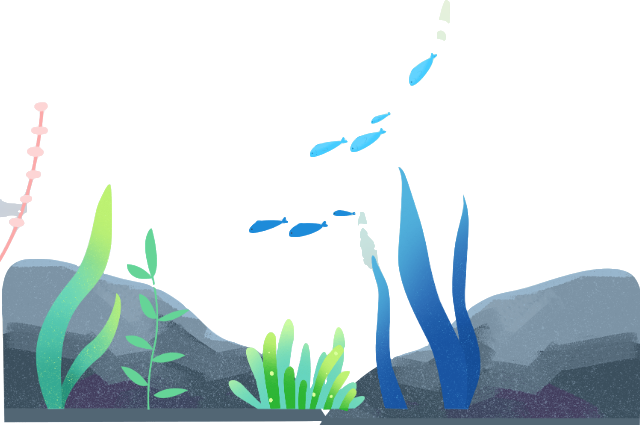
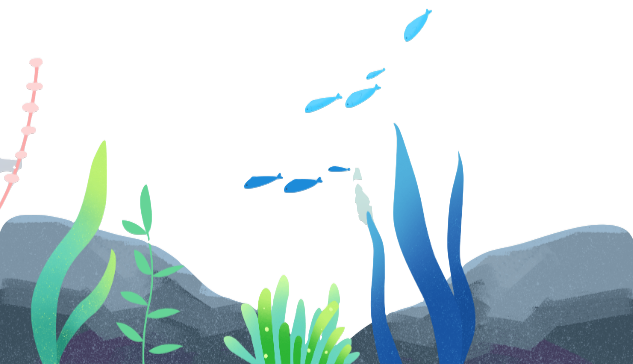
成功在底部显示海底背景图

diff --git a/src/components/GameCanvas.vue b/src/components/GameCanvas.vue
@@ -12,10 +12,10 @@
 <style scoped>
 .top {
     position: absolute;
-    top: 25%;
+    top: 20%;
     left: 25%;
     width: 45%;
-    height: 68%;
+    height: 75%;
     background-color: #c0e3ff;
     border-radius: 5%;
     overflow: hidden;
@@ -71,12 +71,14 @@ export default {
             results: undefined, // 识别结果
             faceDetector: undefined, // 人脸识别器
             faceResults: undefined, // 人脸识别结果
+            backgroundImage: null, // 背景图片
         }
     },
     mounted() {
         this.loadDrawingUtils();
         this.createFaceDetector();
         this.enableCam();
+        this.loadBackgroundImage();
     },
     methods: {
         async loadDrawingUtils() {
@@ -108,6 +110,13 @@ export default {
                 this.$refs.video.addEventListener("loadeddata", this.predictWebcam);
             });
         },
+        loadBackgroundImage() {
+            const img = new Image();
+            img.src = "/DeepOceanAdventure/assets/base.png";
+            img.onload = () => {
+                this.backgroundImage = img;
+            };
+        },
         async predictWebcam() {
             if (!this.drawUtilsLoaded || !this.faceDetector) {
                 requestAnimationFrame(this.predictWebcam);
@@ -138,6 +147,11 @@ export default {
 
             canvasCtx.save();
             canvasCtx.clearRect(0, 0, canvas.width, canvas.height); // 清空画布
+
+            // 绘制背景图片
+            if (this.backgroundImage) {
+                canvasCtx.drawImage(this.backgroundImage, 0, canvas.height*2/3, canvas.width, canvas.height/3);
+            }
 
             // 绘制人脸关键点
             if (this.faceResults && this.faceResults.detections) {
